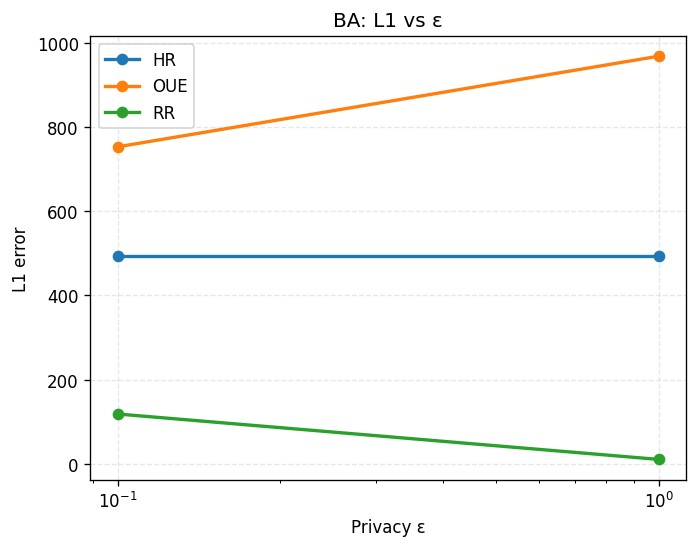
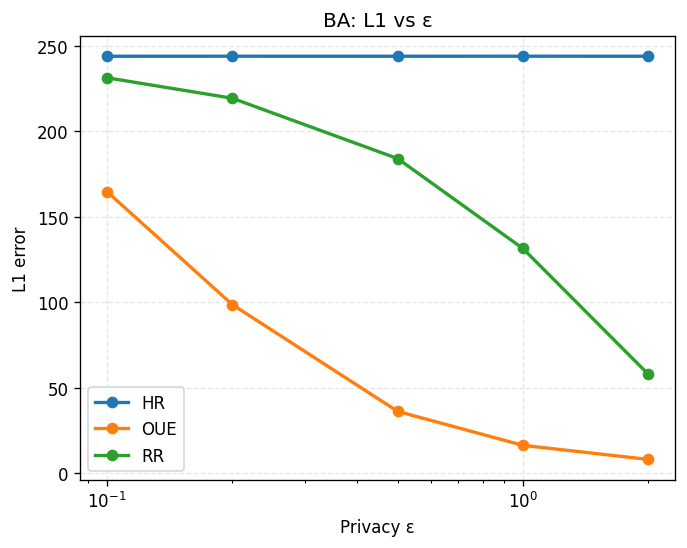
优化了运行速度

diff --git a/mechanisms.py b/mechanisms.py
@@ -1,76 +1,86 @@
 import numpy as np
-from scipy.linalg import hadamard
+from functools import lru_cache
 
-# ==========================================================
-# 0.  shared helpers
-# ==========================================================
-_rng_global = np.random.default_rng(0)
-
-# ==========================================================
-# 1.  Randomised Response  (same as before)
-# ==========================================================
-
-def rr_encode(bit: int, eps: float, rng=_rng_global):
+# ---------- 1. RR (vectorised) ----------
+def rr_encode(adj: np.ndarray, eps: float, rng: np.random.Generator):
+    """
+    adj: (n,n) uint8     -> returns encoded (n,n) uint8
+    """
     p = np.exp(eps) / (np.exp(eps) + 1)
-    return bit if rng.random() < p else 1 - bit
+    q = 1 - p
+    mask_flip = rng.random(adj.shape) < q          # 需要翻转的位置
+    out = adj.copy()
+    out[mask_flip] ^= 1                            # bitwise flip
+    return out
 
-def rr_decode(count_one: int, n: int, eps: float):
+def rr_decode(reports: np.ndarray, eps: float):
     p = np.exp(eps) / (np.exp(eps) + 1)
-    return np.clip((count_one / n - (1 - p)) / (p - (1 - p)), 0, 1)
+    q = 1 - p
+    return np.clip((reports.astype(float) - q) / (p - q), 0.0, 1.0)
 
-# ==========================================================
-# 2.  OUE (unchanged)
-# ==========================================================
-
-def oue_encode(vec: np.ndarray, eps: float, rng=_rng_global):
+# ---------- 2. OUE (vectorised) ----------
+def oue_encode(adj: np.ndarray, eps: float, rng: np.random.Generator):
     p = 0.5
-    q = 1 / (np.exp(eps) + 1)
-    noisy = vec.copy()
-    flip = rng.random(vec.shape) < (1 - p)
-    noisy[flip] ^= 1
-    noisy ^= (rng.random(vec.shape) < q)
-    return noisy.astype(np.uint8)
+    q = 1.0 / (np.exp(eps) + 1.0)
+    keep_1   = rng.random(adj.shape) < p           # 对 1 保留
+    flip_0   = rng.random(adj.shape) < q           # 对 0 误报
+    out = (adj & keep_1) | ((1 - adj) & flip_0)
+    return out.astype(np.uint8)
 
 def oue_decode(reports: np.ndarray, eps: float):
+    # 输入 shape (n,n) → 返回列概率 (n,)
     p = 0.5
-    q = 1 / (np.exp(eps) + 1)
-    s = reports.mean(0)
-    return np.clip((s - q) / (p - q), 0, 1)
+    q = 1.0 / (np.exp(eps) + 1.0)
+    mean = reports.mean(axis=0)
+    return np.clip((mean - q) / (p - q), 0.0, 1.0)
 
-# ==========================================================
-# 3.  **Hadamard Response (real implementation)**
-# ==========================================================
+# ---------- 3. HR (vectorised Hadamard) ----------
+@lru_cache(maxsize=None)
+def hadamard(m: int):
+    """
+    返回 m×m Hadamard (m 为 2 的幂)。懒加载 + 缓存。
+    """
+    H = np.array([[1]])
+    while H.shape[0] < m:
+        H = np.vstack((np.hstack((H, H)), np.hstack((H, -H))))
+    return H
 
-def _get_hadamard(k: int):
-    """ Small cache for Hadamard matrices of size power‑of‑two >= k """
-    m = 1 << (k - 1).bit_length()
-    return hadamard(m)
+def hr_encode(adj: np.ndarray, eps: float, rng: np.random.Generator):
+    """
+    每行邻接向量 → Hadamard 投影 → 只发送 (index, sign)
+    返回: reports_index (n,) int  和  reports_sign (n,) int8
+    """
+    n = adj.shape[1]
+    m = 1 << int(np.ceil(np.log2(n)))          # 最近的 2^k
+    pad = m - n
+    if pad:                                    # 零填充
+        adj = np.pad(adj, ((0, 0), (0, pad)))
+    H = hadamard(m)
+    s = 2 * adj - 1                            # 0/1 → -1/+1
+    proj = H @ s.T                             # shape (m,n)
+    idx = rng.integers(0, m, size=n)           # 随机选一维
+    sign = np.sign(proj[idx, range(n)]).astype(np.int8)
+    flip_mask = rng.random(n) < 1.0 / (np.exp(eps) + 1)
+    sign = sign ^ flip_mask.astype(np.int8)    # 局部 RR 噪声
+    return idx.astype(np.uint16), sign         # 索引+符号
 
+def hr_aggregate(indices, signs, n, eps):
+    m = 1 << int(np.ceil(np.log2(n)))
+    H = hadamard(m)
+    count = np.zeros((m,))
+    for idx, s in zip(indices, signs):
+        count[idx] += s
+    est = (H.T @ count) / len(indices)         # 估计 ±1 向量值
+    est = est[:n]
+    prob = (est + 1) / 2                       # 映射回 [0,1]
+    prob = np.clip(prob, 0.0, 1.0)
+    return np.tile(prob, (n, 1))               # (n,n) 概率矩阵
 
-def hr_encode(vec: np.ndarray, eps: float, rng=_rng_global):
-    k = vec.size
-    m = 1 << int(np.ceil(np.log2(k)))  # 1024
-    if m != k:  # ← 新增：零填充到 m
-        vec = np.pad(vec, (0, m - k))
-    H = _get_hadamard(m)
-    # project vec onto Hadamard basis → sign pattern length m
-    proj = H[:k] @ (2 * vec - 1)   # ±1 projection
-    # choose *one* coordinate uniformly & privatise its sign with RR
-    idx = rng.integers(0, proj.size)
-    sign_bit = 1 if proj[idx] > 0 else 0
-    priv = rr_encode(sign_bit, eps, rng)
-    # upload (index, priv_bit)  ← uses log2(m)+1   bits
-    return idx, priv
-
-
-def hr_aggregate(reports, k: int, eps: float):
-    """Aggregate list of (idx, bit) and return prob‑vector length k"""
-    m = 1 << (k - 1).bit_length()
-    counts = np.zeros(m, dtype=int)
-    for idx, bit in reports:
-        counts[idx] += 1 if bit else 0
-    total = len(reports)
-    est_sign = rr_decode(counts, total, eps) * 2 - 1  # → in (‑1,1)
-    H = _get_hadamard(k)
-    est = (H[:k, :m] @ est_sign) / m
-    return np.clip((est + 1) / 2, 0, 1)
+# ------------------- tests -------------------
+if __name__ == "__main__":
+    rng = np.random.default_rng(0)
+    A = rng.integers(0, 2, size=(100, 100), dtype=np.uint8)
+    rr = rr_encode(A, 1.0, rng); assert rr.shape == A.shape
+    oue = oue_encode(A, 1.0, rng); assert oue.shape == A.shape
+    idx, sig = hr_encode(A, 1.0, rng)
+    est_hr = hr_decode(idx, sig, 100, 1.0); assert est_hr.shape == A.shape

diff --git a/simulation.py b/simulation.py
@@ -1,49 +1,45 @@
 import numpy as np, networkx as nx
 from mechanisms import rr_encode, rr_decode, oue_encode, oue_decode, hr_encode, hr_aggregate
 from evaluation import degree_error, clustering_error, assortativity_error
+from evaluation import avg_clustering, edge_precision_recall
 
 
-def simulate(G: nx.Graph, mech: str, eps: float, seed=0):
+
+def simulate(graph, mechanism: str, eps: float, seed: int = 0):
     rng = np.random.default_rng(seed)
-    n = G.number_of_nodes()
-    A = nx.to_numpy_array(G, dtype=np.uint8)
+    n = len(graph)
+    A = nx.to_numpy_array(graph, dtype=np.uint8)
 
-    # --- encode ---
-    reports = []
-    for u in range(n):
-        vec = A[u]
-        if mech == "RR":
-            reports.append([rr_encode(int(b), eps, rng) for b in vec])
-        elif mech == "OUE":
-            reports.append(oue_encode(vec, eps, rng))
-        else:  # HR
-            reports.append(hr_encode(vec, eps, rng))
+    if mechanism == "RR":
+        reports = rr_encode(A, eps, rng)
+        col_prob = rr_decode(reports, eps).mean(axis=0)
 
-    # --- decode ---
-    if mech == "RR":
-        col_prob = [rr_decode(sum(col), n, eps) for col in zip(*reports)]
-        row_prob = [rr_decode(sum(row), n, eps) for row in reports]
-    elif mech == "OUE":
-        col_prob = oue_decode(np.array(reports), eps)
-        row_prob = oue_decode(np.array(reports).T, eps)
-    else:  # HR
-        col_prob = hr_aggregate(reports, n, eps)
-        # for symmetry just reuse col → row; HR already unbiased
-        row_prob = col_prob
+    elif mechanism == "OUE":
+        reports = oue_encode(A, eps, rng)
+        col_prob = oue_decode(reports, eps)
 
-    P = (np.tile(col_prob, (n, 1)) + np.tile(row_prob, (n, 1)).T) / 2
+    elif mechanism == "HR":
+        idxs, signs = hr_encode(A, eps, rng)
+        col_prob = hr_aggregate(idxs, signs, n, eps)[0]  # any row, all the same
 
-    # --- metrics ---
-    true_deg = A.sum(1)
-    est_deg = P.sum(1)
-    l1, l2 = degree_error(true_deg, est_deg)
-    clus_err = clustering_error(G, P)
-    assort_err = assortativity_error(G, P)
-
-    if mech == "HR":  # HR: index + bit  → log2(n)+1 bits
-        bits_per_user = int(np.ceil(np.log2(n))) + 1
     else:
-        bits_per_user = n
+        raise ValueError(f"unknown mechanism {mechanism}")
 
-    return dict(l1=l1, l2=l2, c=clus_err, a=assort_err,
-                bits=bits_per_user, graph="FB", mech=mech, eps=eps)
+    est_mat = np.tile(col_prob, (n, 1))  # simplified decode (row = col prob)
+    true_deg = A.sum(axis=1)
+    est_deg = est_mat.sum(axis=1)
+
+    l1 = np.mean(np.abs(true_deg - est_deg))
+    l2 = np.sqrt(np.mean((true_deg - est_deg) ** 2))
+    clust_err = abs(nx.average_clustering(graph) - avg_clustering(est_mat))
+    prec, rec = edge_precision_recall(graph, est_mat)
+
+    return {
+        "l1": l1,
+        "l2": l2,
+        "clust": clust_err,
+        "prec": prec,
+        "rec": rec,
+        "bits": reports.size if mechanism != "HR" else len(idxs) * (np.log2(n).astype(int) + 1),
+        "n_nodes": n
+    }

diff --git a/evaluation.py b/evaluation.py
@@ -23,3 +23,29 @@ def assortativity_error(G: nx.Graph, P):
     except ZeroDivisionError:
         est_a = 0.0
     return abs(true_a - est_a)
+
+def avg_clustering(P):
+    """
+    P: 估计邻接矩阵（概率矩阵）→ 二值化后计算平均聚类系数
+    """
+    est_adj = (P > 0.5).astype(int)
+    G = nx.from_numpy_array(est_adj)
+    return nx.average_clustering(G)
+
+
+def edge_precision_recall(G: nx.Graph, P):
+    """
+    输入：真实图 G，估计概率矩阵 P
+    输出：边的 precision 和 recall（0.5 二值化为边）
+    """
+    n = len(G)
+    true_adj = nx.to_numpy_array(G, dtype=int)
+    est_adj = (P > 0.5).astype(int)
+
+    TP = np.logical_and(true_adj == 1, est_adj == 1).sum() // 2
+    FP = np.logical_and(true_adj == 0, est_adj == 1).sum() // 2
+    FN = np.logical_and(true_adj == 1, est_adj == 0).sum() // 2
+
+    precision = TP / (TP + FP + 1e-8)
+    recall = TP / (TP + FN + 1e-8)
+    return precision, recall

diff --git a/experiments.py b/experiments.py
@@ -3,8 +3,8 @@ from graphs import gen_er, gen_ba, gen_ws, load_facebook
 from simulation import simulate
 
 # -------- 实验配置 --------
-#EPS_LIST   = [0.1, 0.5, 1, 2]
-EPS_LIST   = [0.1, 1]
+EPS_LIST   = [0.1, 0.2, 0.5, 1, 2]
+#EPS_LIST   = [0.1, 1]
 MECH_LIST  = ["RR", "OUE", "HR"]
 SEED       = 42
 N_SYN      = 500               # 合成图节点数

diff --git a/plotting.py b/plotting.py
@@ -14,8 +14,6 @@ import matplotlib.pyplot as plt
 CSV     = "results/metrics.csv"
 FIG_DIR = "figs"
 METRICS = ["l1", "l2", "clust"]   # clust = clustering‑coef error, may be absent
-
-
 def _ensure_file():
     if not os.path.exists(CSV):
         raise FileNotFoundError(
